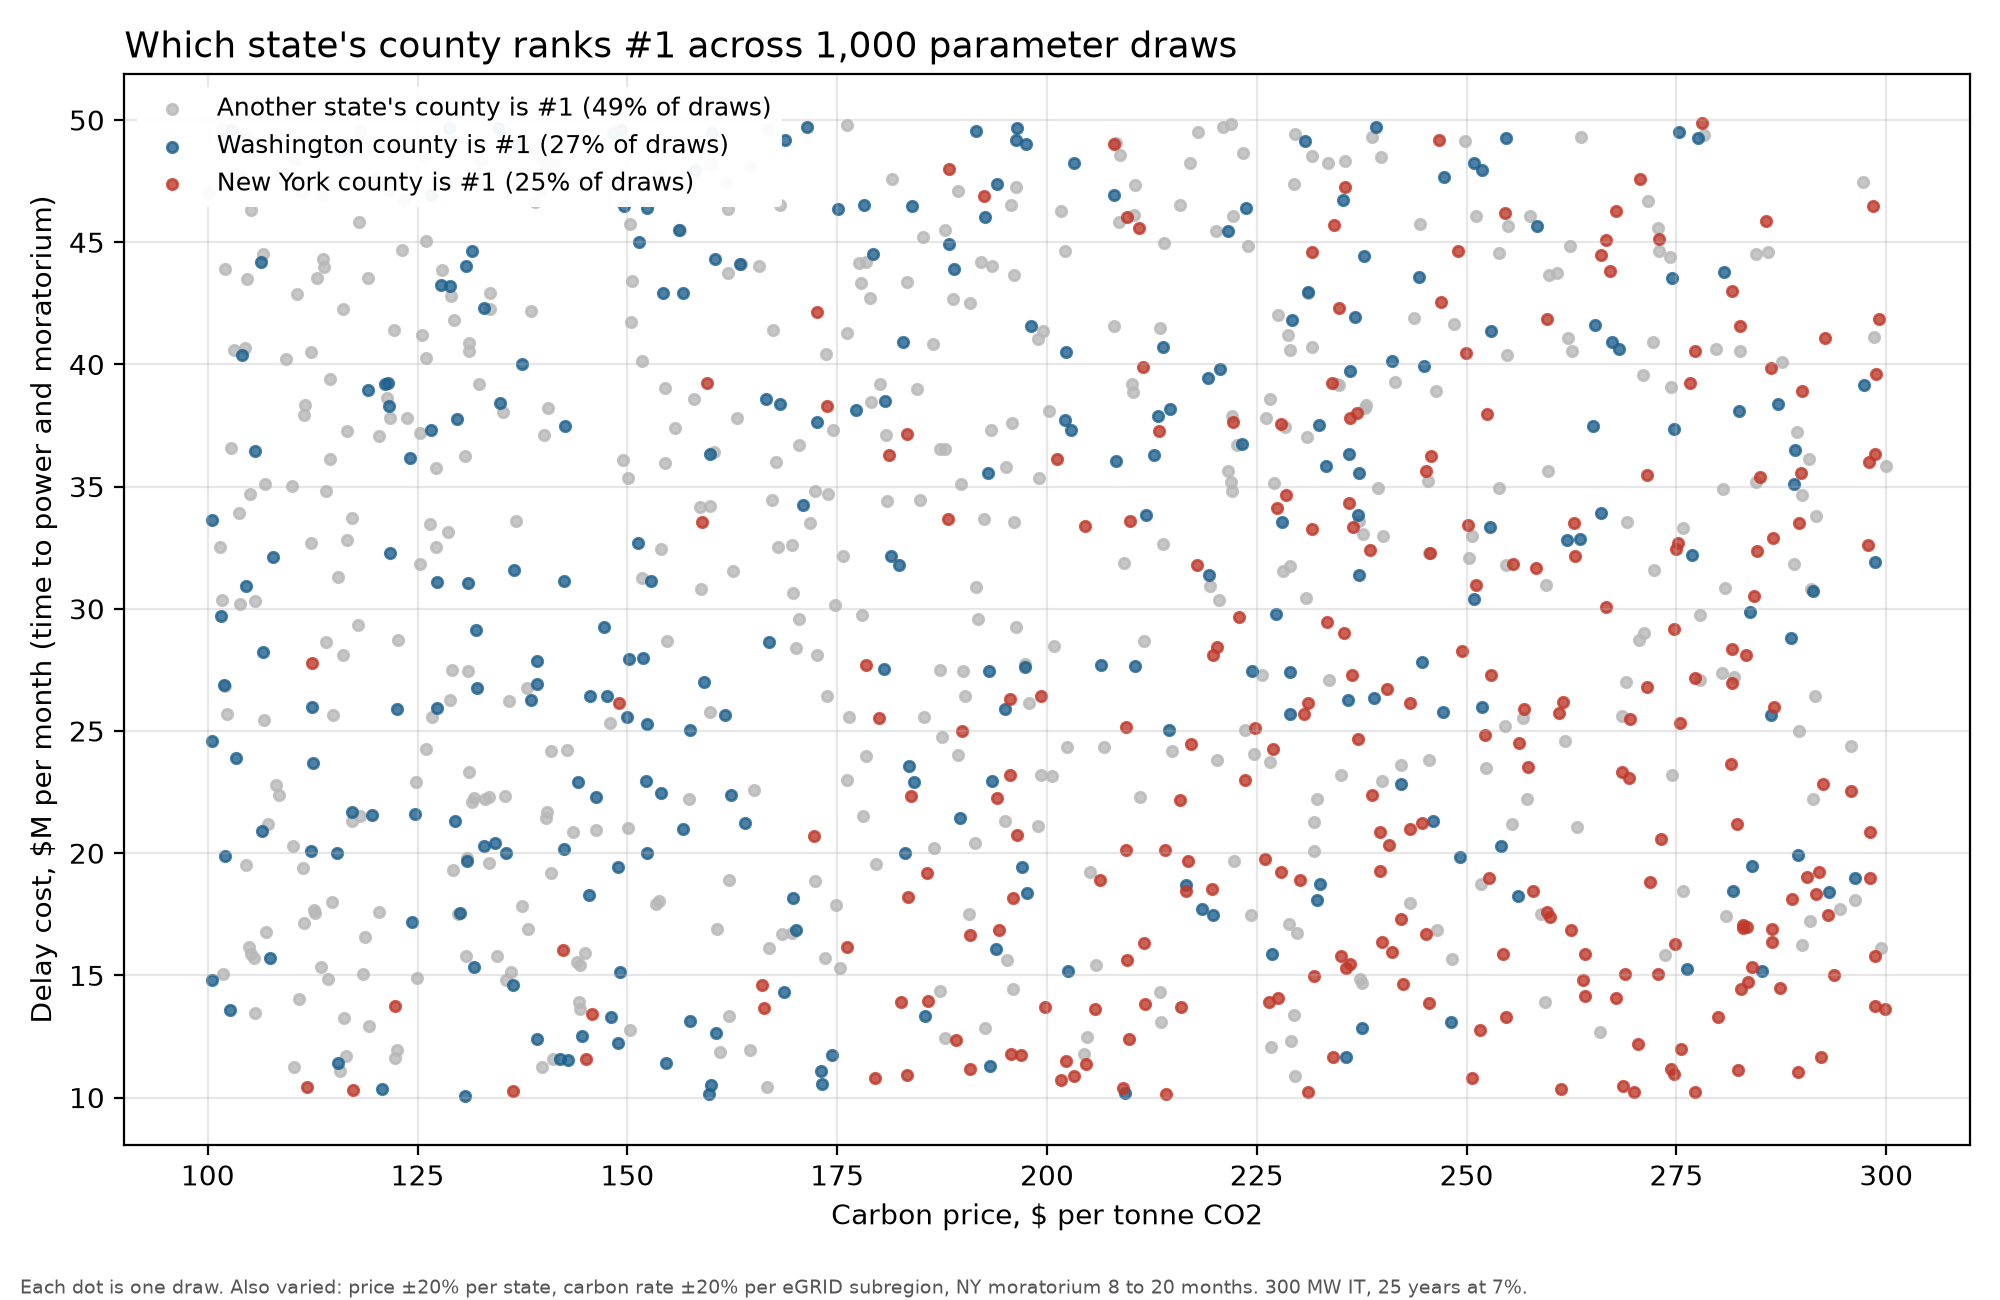
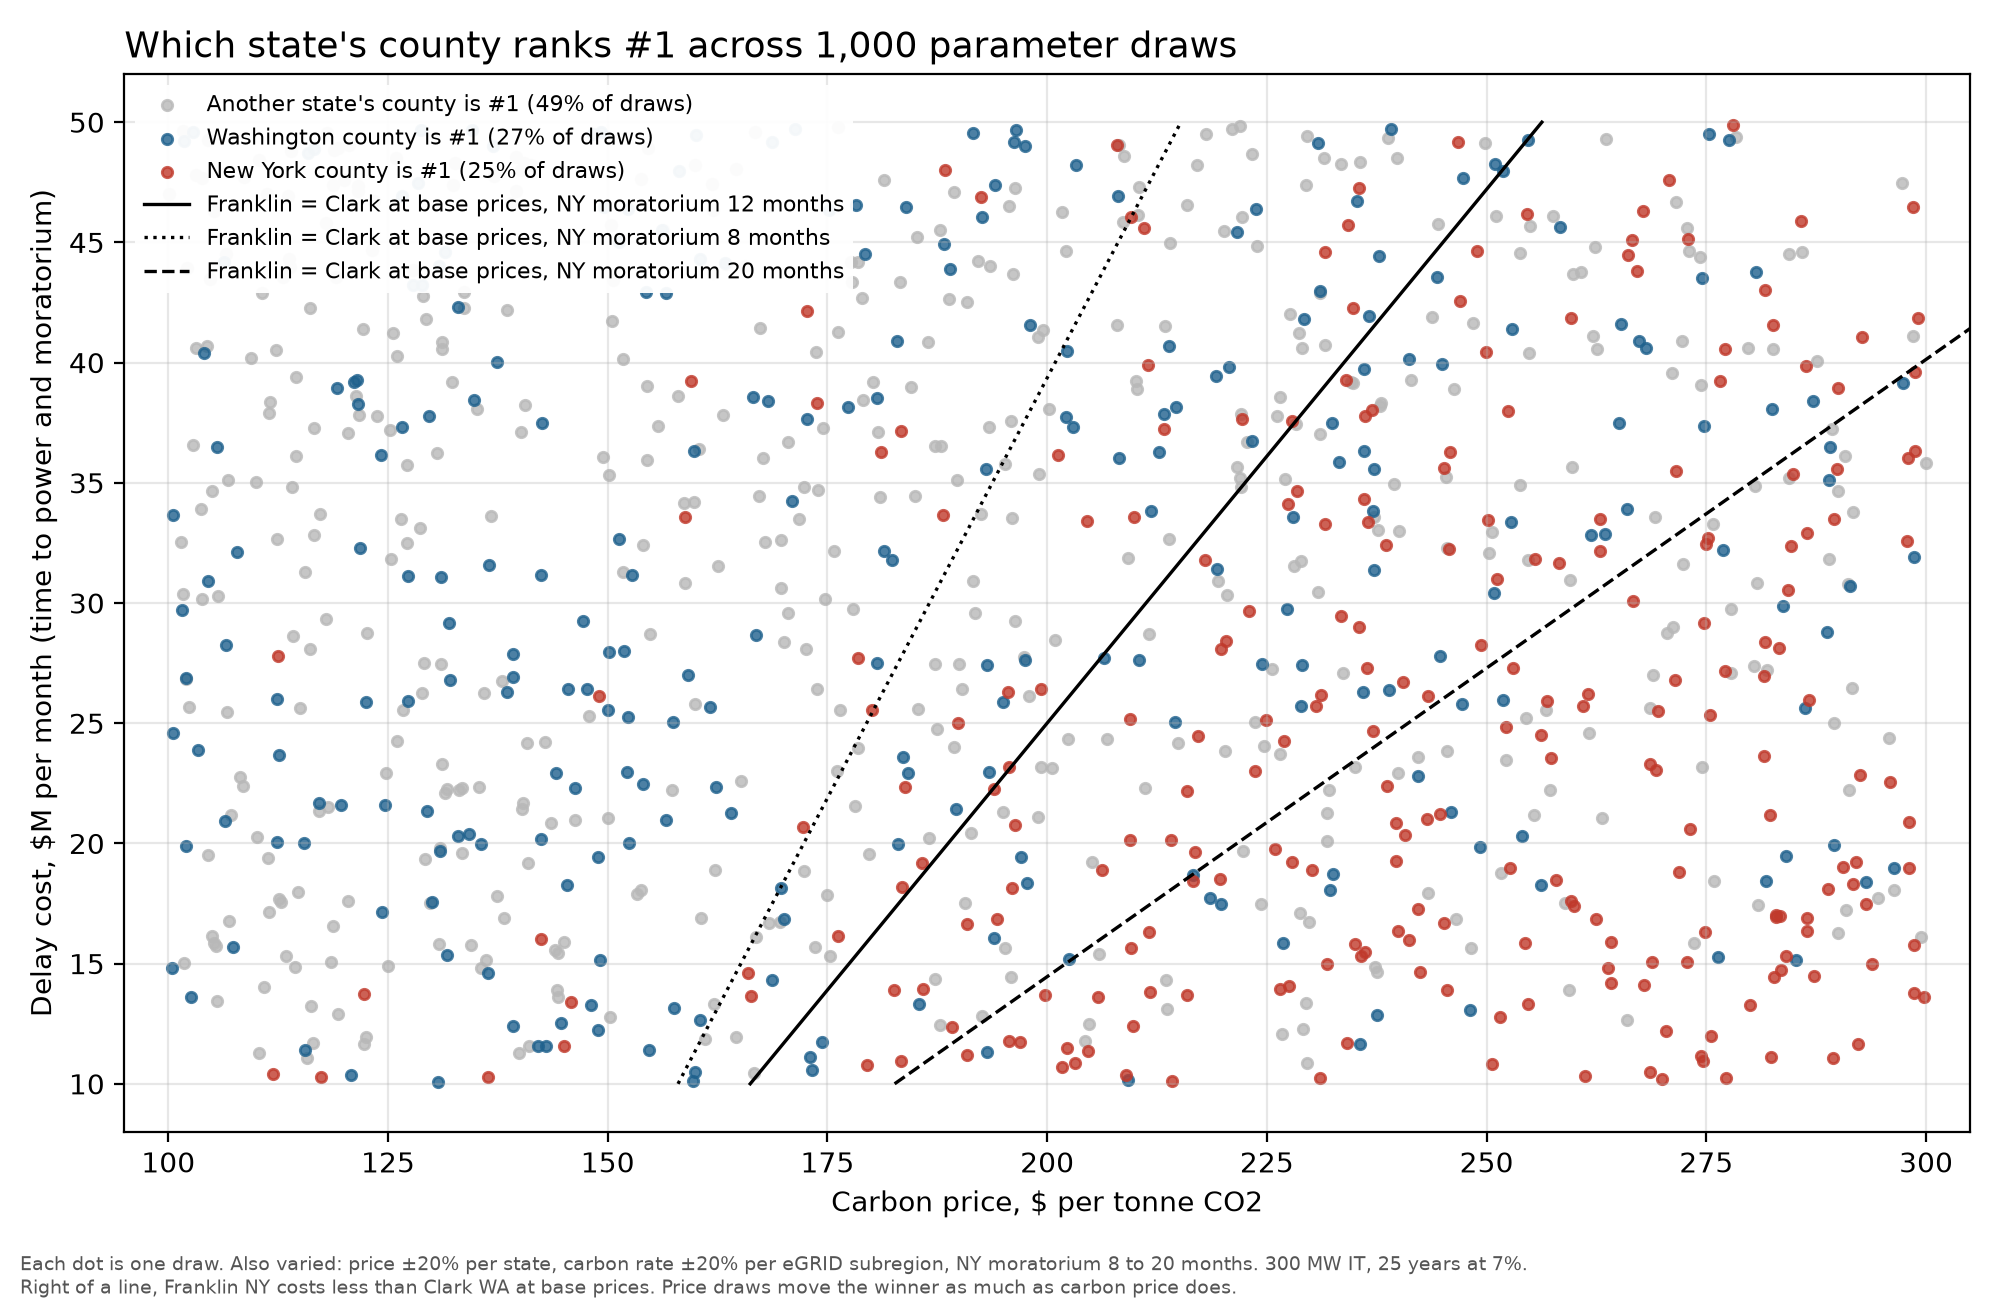
Add the crossover carbon price and driver regression to the Monte Carlo
What: montecarlo.py now computes the carbon price at which Franklin NY
and Clark WA cost the same, regresses their per-draw cost gap on all
seven drivers, reports the winning state's drawn price multiplier by
cluster, and draws crossover lines on docs/img/mc_winners.png. The log
records the results and the advisor consultation, and its history
headings are re-stamped from commit times.

Why: the advisor review of whether the top-3 tie is real asked for a
computed crossover instead of a 59% head-to-head, and for a check
before claiming one driver dominates.

Key results:
- Franklin overtakes Clark above $200/t at base parameters ($166/t at
  $10M per month of delay, $256/t at $50M).
- Gap regression R2 0.983. State prices explain 46% of the gap's
  variance, carbon price 28%. This corrects eb090db's claim that carbon
  price is the main driver.
- Minor-state winners need deeper price cuts (multiplier 0.84 to 0.88
  against about 0.90 for Clark and Franklin).

No new assumptions.

diff --git a/scratch/weighting/montecarlo.py b/scratch/weighting/montecarlo.py
@@ -111,6 +111,45 @@ def main():
                          "p_wa_first": round(float(is_wa[sel].mean()), 3)})
         terciles[name] = rows
 
+    # Crossover: the carbon price at which Franklin's total equals Clark's, at base parameters, as a
+    # function of delay cost D and NY moratorium months M. Both totals are linear in carbon price.
+    cl, fr = c.loc[CLARK], c.loc[FRANKLIN]
+    fixed = lambda r: r.energy + r.water + r.hazard  # noqa: E731
+    d_co2 = af * (cl.co2_t - fr.co2_t)  # dollars per $/t of carbon price that Clark pays over Franklin
+    i_f = i[FRANKLIN]
+
+    def crossover(D, M):
+        franklin = fixed(fr) + fr.delay_months_ttp * D + (extra["active"][i_f] * M + extra["fixed_months"][i_f]) * D
+        clark = fixed(cl) + cl.delay_months_ttp * D + (extra["active"][i[CLARK]] * M
+                                                       + extra["fixed_months"][i[CLARK]]) * D
+        return (franklin - clark) / d_co2
+
+    cross = {"base_25M_12mo": crossover(25e6, 12), "10M_12mo": crossover(10e6, 12),
+             "50M_12mo": crossover(50e6, 12), "25M_8mo": crossover(25e6, 8), "25M_20mo": crossover(25e6, 20)}
+    check = totals(c, extra, af, 1.0, 1.0, 25e6, 12, cross["base_25M_12mo"])
+    assert abs(check[i[CLARK]] - check[i_f]) < 1.0, "crossover check failed"
+
+    # Which driver moves the Clark - Franklin gap? Linear regression on all seven drivers per draw.
+    s_of = {s: k for k, s in enumerate(states)}
+    r_of = {r: k for k, r in enumerate(subs)}
+    X = pd.DataFrame({
+        "price_mult_WA": price_m[:, s_of["WA"]], "price_mult_NY": price_m[:, s_of["NY"]],
+        "carbon_mult_NWPP": carbon_m[:, r_of["NWPP"]], "carbon_mult_NYUP": carbon_m[:, r_of["NYUP"]],
+        "delay_usd_month": delay, "moratorium_months": months, "carbon_usd_t": cprice})
+    gap = T[:, i[CLARK]] - T[:, i_f]
+    A = np.column_stack([np.ones(N), X.to_numpy()])
+    beta, *_ = np.linalg.lstsq(A, gap, rcond=None)
+    r2 = 1 - ((gap - A @ beta) ** 2).sum() / ((gap - gap.mean()) ** 2).sum()
+    # Independent drivers, so each one's share of the gap's variance is beta^2 var(x) / var(gap).
+    drv_share = {k: float(b ** 2 * X[k].var() / gap.var()) for k, b in zip(X.columns, beta[1:])}
+
+    # Do minor-state winners win on a lucky price draw? Mean drawn price multiplier of the winning state.
+    win_mult = price_m[np.arange(N), s_idx[first]]
+    win_cluster = cluster.to_numpy()[first]
+    lucky = pd.Series(win_mult).groupby(win_cluster).agg(["mean", "size"]).sort_values("size", ascending=False)
+    within = {"WA / NWPP won by Clark": float((fips[first][win_cluster == "WA / NWPP"] == CLARK).mean()),
+              "NY / NYUP won by Franklin": float((fips[first][win_cluster == "NY / NYUP"] == FRANKLIN).mean())}
+
     # Grant with BPA-like supply, on the same draws, kept out of the main ranking.
     g = c.loc[GRANT]
     g_bpa = (T[:, i[GRANT]] - g.facility_mwh * g.price_usd_mwh * price_m[:, s_idx[i[GRANT]]] * af
@@ -134,14 +173,21 @@ def main():
         sel = win_state == s
         ax.scatter(cprice[sel], delay[sel] / 1e6, s=14, alpha=0.8, color=style[s][0],
                    label=f"{style[s][1]} ({sel.mean():.0%} of draws)")
+    dd = np.linspace(10e6, 50e6, 50)
+    for M, ls in ((12, "-"), (8, ":"), (20, "--")):
+        ax.plot([crossover(D, M) for D in dd], dd / 1e6, ls, color="black", lw=1.2,
+                label=f"Franklin = Clark at base prices, NY moratorium {M} months")
+    ax.set_xlim(95, 305)
     ax.set_xlabel(r"Carbon price, \$ per tonne CO2")
     ax.set_ylabel(r"Delay cost, \$M per month (time to power and moratorium)")
     ax.set_title("Which state's county ranks #1 across 1,000 parameter draws", fontsize=13, loc="left")
-    ax.legend(fontsize=9, frameon=True, framealpha=0.95, edgecolor="none", loc="upper left")
+    ax.legend(fontsize=8, frameon=True, framealpha=0.95, edgecolor="none", loc="upper left")
     ax.grid(alpha=0.3)
     fig.text(0.01, 0.005, "Each dot is one draw. Also varied: price ±20% per state, carbon rate ±20% per eGRID "
-             "subregion, NY moratorium 8 to 20 months. 300 MW IT, 25 years at 7%.", fontsize=7, color="#555")
-    fig.tight_layout(rect=(0, 0.03, 1, 1))
+             "subregion, NY moratorium 8 to 20 months. 300 MW IT, 25 years at 7%.\n"
+             "Right of a line, Franklin NY costs less than Clark WA at base prices. Price draws move the "
+             "winner as much as carbon price does.", fontsize=7, color="#555")
+    fig.tight_layout(rect=(0, 0.04, 1, 1))
     chart = IMG / "mc_winners.png"
     fig.savefig(chart)
     plt.close(fig)
@@ -156,6 +202,12 @@ def main():
         "p_clark_beats_franklin": pcf, "p_clark_beats_franklin_se": se,
         "p_clark_beats_grant": float(clark_beats_grant.mean()),
         "imputed_queue_share_of_first": imputed_p1, "terciles": terciles, "grant_bpa": grant_bpa,
+        "crossover_carbon_usd_t": cross, "gap_regression_r2": float(r2),
+        "gap_regression_beta": dict(zip(["intercept", *X.columns], map(float, beta))),
+        "gap_variance_share_by_driver": drv_share,
+        "winner_state_price_mult": {k: {"mean": round(float(v["mean"]), 3), "wins": int(v["size"])}
+                                    for k, v in lucky.iterrows()},
+        "within_cluster": within,
         "chart": "docs/img/mc_winners.png",
     }
     (OUT / "montecarlo_summary.json").write_text(json.dumps(summary, indent=2))
@@ -170,6 +222,10 @@ def main():
         print(k, [(r["tercile"], [round(x / 1e6, 1) if k == "delay_usd_month" else round(x, 1) for x in r["range"]],
                    r["p_clark_beats_franklin"], r["p_ny_first"], r["p_wa_first"]) for r in rows])
     print("Grant with BPA supply:", grant_bpa)
+    print("crossover carbon price, $/t:", {k: round(v, 1) for k, v in cross.items()})
+    print(f"gap regression R2 {r2:.3f}; variance share by driver:", {k: round(v, 3) for k, v in drv_share.items()})
+    print("winner state price multiplier by cluster:\n", lucky.head(12).round(3).to_string())
+    print("within cluster:", within)
 
 
 if __name__ == "__main__":

diff --git a/docs/weighting_log.md b/docs/weighting_log.md
@@ -9,7 +9,7 @@ the bottom is append-only and timestamped.
 
 Overwritten at every update.
 
-- **Updated:** 2026-10-04 01:30 UTC
+- **Updated:** 2026-10-04 01:36 UTC
 - **Branch:** `feat/weighting-methods`, based on `main` at `1575003`.
 - **Pull request:** draft PR #35,
   https://github.com/NeilKhandelwal/BAC-Hackathon/pull/35. To edit its
@@ -17,26 +17,28 @@ Overwritten at every update.
   `gh pr view 35 --json body --jq .body > pr_body.md`, edit the Results
   and Checklist sections, then run `gh pr edit 35 --body-file pr_body.md`.
   Keep the body file outside the repo.
-- **Phase and step:** pre-Phase 2 checks. Step: writing
-  `scratch/weighting/montecarlo.py` (parameter uncertainty over the
-  monetized model). Then Phase 2 (SMAA).
-- **Done:** Phase 0. Phase 1 (`scratch/weighting/common.py`,
-  `scratch/weighting/monetize.py`, outputs in `scratch/weighting/out/`,
-  chart `docs/img/cost_vs_co2.png`). Results are in the history below.
-- **In progress:** pre-Phase 2 Monte Carlo. Nothing from it is committed
-  yet.
-- **Exact next action:** write and run `scratch/weighting/montecarlo.py`
-  per the design in the 01:45 UTC history entry. Then write
-  `scratch/weighting/smaa.py`, starting with the self-check that balanced
-  weights reproduce the top 10 in `results/balanced.csv`. Run SMAA with the
-  floor on and off.
+- **Phase and step:** pre-Phase 2 checks done (Clark queue check, Monte
+  Carlo, hazard note). Phase 2 (SMAA) not started.
+- **Done:** Phase 0. Phase 1 (`monetize.py`). Monte Carlo
+  (`montecarlo.py`, `docs/img/mc_winners.png`). `docs/weighting.md` stub
+  with the hazard-downtime and floor notes. Results are in the history.
+- **In progress:** nothing.
+- **Exact next action:** write `scratch/weighting/smaa.py`. Start with the
+  self-check that balanced weights through the vectorized composite
+  reproduce the top 10 in `results/balanced.csv`. Run 5,000 Dirichlet(1)
+  draws over the 8 pillars with the floor on and off. Report rank-1 and
+  top-10 acceptability, central weights for the top 5, and Clark WA,
+  Franklin NY, and Grant WA under both settings. Franklin fails the floor
+  on cost (6.5 against 10), so its floor-on rank-1 acceptability is 0 by
+  construction.
+- **Reproduce:** from the repo root, after fetching raw NRI (below):
+  `.venv/Scripts/python.exe scratch/weighting/monetize.py`, then
+  `.venv/Scripts/python.exe scratch/weighting/montecarlo.py`. Both rewrite
+  `scratch/weighting/out/` and their charts in `docs/img/`.
 - **Advisor rule (from the user):** consult the advisor before finalizing a
   Monte Carlo design, when judging whether the top 3 is a real tie, before
   writing the Phase 5 recommendation, and whenever results look
   implausible. Log each consultation and what changed.
-- **Reproduce Phase 1:** `.venv/Scripts/python.exe scratch/weighting/monetize.py`
-  from the repo root, after fetching raw NRI (below). It rewrites
-  `scratch/weighting/out/` and `docs/img/cost_vs_co2.png`.
 - **Files a new session must recreate** (gitignored, not in the repo):
   - Python env: `python -m venv .venv`, then
     `.venv/Scripts/pip install -r requirements.txt` (Windows) or
@@ -87,7 +89,7 @@ Overwritten at every update.
      after Phase 5. Never merge. Never push to `main`.
   10. Logging: update this log, then commit and push it, after each phase,
       after each decision, and before any long-running step.
-  11. Pre-Phase 2 checks (2026-10-04 01:40 UTC): report whether Clark's
+  11. Pre-Phase 2 checks (2026-10-04 01:20 UTC): report whether Clark's
       queue age is real; if imputed, rerun $190/t with imputed counties at
       the 75th-percentile queue age. Run 1,000 Monte Carlo draws: state
       price ±20%, subregion carbon rate ±20%, delay cost U($10M, $50M), NY
@@ -183,7 +185,7 @@ coefficient becomes a weight. The phase stops if AUC is below 0.65.
 
 ## History
 
-### 2026-10-04 00:30 UTC, Phase 0: get current
+### 2026-10-04 01:00 UTC (approximate), Phase 0: get current
 
 **Repo state.** `main` is at `1575003` (PR #33, BPA rate constant). The test
 suite gives 138 passed, 8 skipped, 1 xfailed. The skips are adapter tests
@@ -254,7 +256,7 @@ primary run with column-level weights, delay cost and moratorium duration
 sensitivities added, a queue-imputation check added, and the git and pull
 request rules.
 
-### 2026-10-04 01:15 UTC, Phase 1: monetized cost
+### 2026-10-04 01:14 UTC, Phase 1: monetized cost
 
 Script: `scratch/weighting/monetize.py`. Full printout:
 `scratch/weighting/out/monetize_report.txt`. Per-county costs:
@@ -368,13 +370,13 @@ much its top 10 overlaps the NPV top 10.
   cost but lowers PUE, so the counties that get it pay more for water and
   less for energy and carbon. Water cost therefore moves against the total.
 
-### 2026-10-04 01:30 UTC, draft PR opened
+### 2026-10-04 01:18 UTC, draft PR opened
 
 Draft PR #35 opened from `feat/weighting-methods` to `main`, with the
 problem statement, methods table, Phase 1 results, assumptions, known
 limitations, and the phase checklist.
 
-### 2026-10-04 01:45 UTC, pre-Phase 2 checks and Monte Carlo design
+### 2026-10-04 01:29 UTC, pre-Phase 2 checks and Monte Carlo design
 
 **Clark WA's queue age is real**, not imputed: 2.09 years, a $25.9M
 time-to-power charge, against Grant's 3.54 years and $463M. The
@@ -417,3 +419,79 @@ hazard risk; and the pillar floor is a judgment rule.
   same draws: energy at U($80, $132)/MWh and carbon at 212 lb/MWh. It stays
   out of the main ranking because no other county gets a contracted-supply
   scenario.
+
+### 2026-10-04 01:36 UTC, Monte Carlo results: the tie is real and two-way
+
+Script: `scratch/weighting/montecarlo.py`. Printout:
+`scratch/weighting/out/montecarlo_report.txt`. JSON:
+`scratch/weighting/out/montecarlo_summary.json`. Chart:
+`docs/img/mc_winners.png`. 1,000 draws, seed 42. The self-check reproduced
+the $190/t totals from `monetize.py` exactly.
+
+**Headline.** Franklin NY overtakes Clark WA above a carbon price of about
+$200/t at base prices, $25M per month of delay, and a 12-month NY
+moratorium. Below it, Clark wins. The crossover moves with the delay
+assumptions:
+
+| Delay cost | NY moratorium | Crossover carbon price |
+| --- | --- | --- |
+| $25M per month | 12 months | $200/t |
+| $10M per month | 12 months | $166/t |
+| $50M per month | 12 months | $256/t |
+| $25M per month | 8 months | $180/t |
+| $25M per month | 20 months | $241/t |
+
+**Shares across draws.** No county is #1 in a majority of draws:
+
+| County | #1 | Top 3 |
+| --- | --- | --- |
+| Clark, WA | 26.6% | 35.2% |
+| Franklin, NY | 24.7% | 34.3% |
+| Chesterfield, SC | 11.2% | 18.3% |
+| Schuyler, NY | 0% | 30.1% |
+| Clinton, NY | 0% | 23.2% |
+| Grant, WA | 0% | 0% |
+
+Clark beats Franklin in 59.3% ± 3.0% of draws (95% interval). That number
+is Monte Carlo sampling error under the chosen ranges, which are centered
+near the $200/t crossover. It isn't a probability about the world.
+
+**What drives the Clark versus Franklin gap.** A linear regression of the
+gap on the seven drivers has R² 0.983. Share of the gap's variance: NY
+price 0.31, carbon price 0.28, WA price 0.15, NWPP carbon rate 0.12, delay
+cost 0.08, NY moratorium months 0.04, NYUP carbon rate 0.02. State
+electricity prices together (0.46) move the gap more than the carbon
+price. The earlier commit message `eb090db` said carbon price drives it;
+that was wrong, and this entry corrects it. Carbon price is the largest
+single policy lever.
+
+**Grant WA.** Clark beats Grant in every draw. That's structural: same
+state price, same eGRID subregion, and Grant has the longer queue and dry
+cooling. Grant's place in the Phase 1 near tie depended on removing its
+time-to-power charge. With BPA-like supply (energy U($80, $132)/MWh,
+212 lb/MWh), Grant's median rank is 246, it's #1 in 3.2% of draws, and it
+beats Clark in 13.6%.
+
+**Cluster check.** Counties that share a state and subregion move
+together. Clark wins every draw its cluster (WA / NWPP) wins, and Franklin
+every draw NY / NYUP wins, so the county and cluster shares are the same.
+The other 49% of #1 draws go to 22 other clusters. Their winning state's
+drawn price multiplier averages 0.84 to 0.88, against 0.90 for Clark and
+0.91 for Franklin, so minor winners need a deeper price cut. Treat
+Chesterfield SC's 11% as a contender only with that caveat.
+
+**Imputation isn't steering the winner.** Counties with an imputed queue
+age win 1.1% of draws.
+
+**Advisor consulted on whether the tie is real.** Changes it made:
+
+- Lead with the crossover carbon price, not with 59%. Overlay crossover
+  lines on the chart.
+- Regress the gap on all drivers before claiming one dominates. That
+  regression reversed the carbon-price claim.
+- Check the winners' price multipliers before reading minor-state wins as
+  contenders.
+- State plainly that Grant isn't in the tie under the monetized model.
+
+Earlier history headings were re-stamped from commit times; the first
+versions used estimated times.
